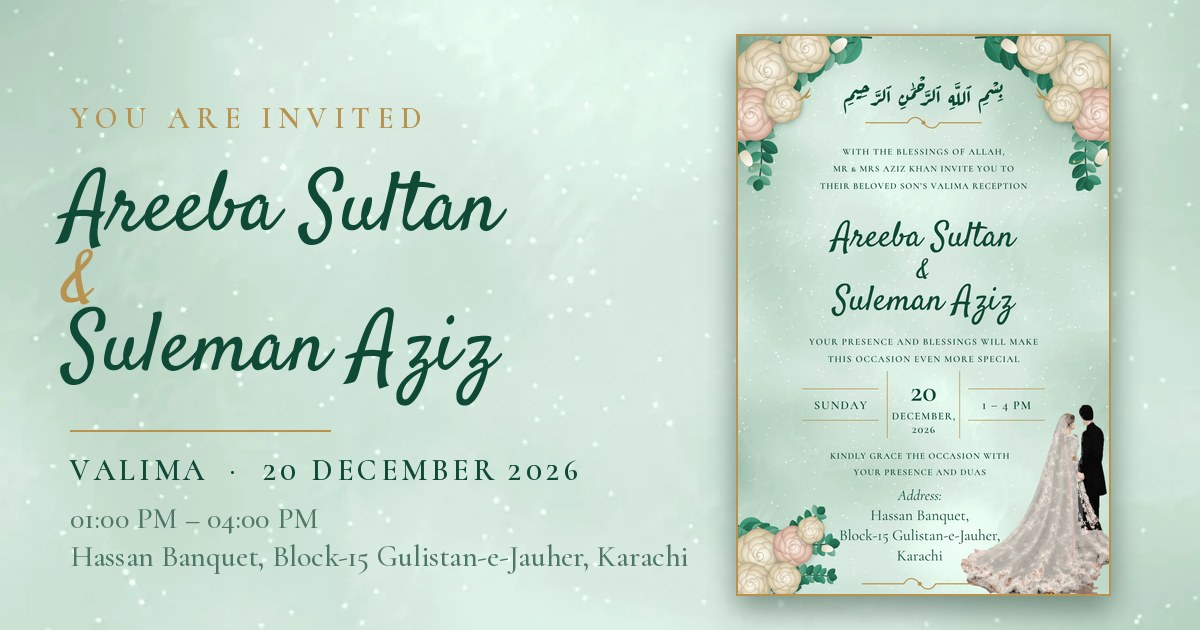
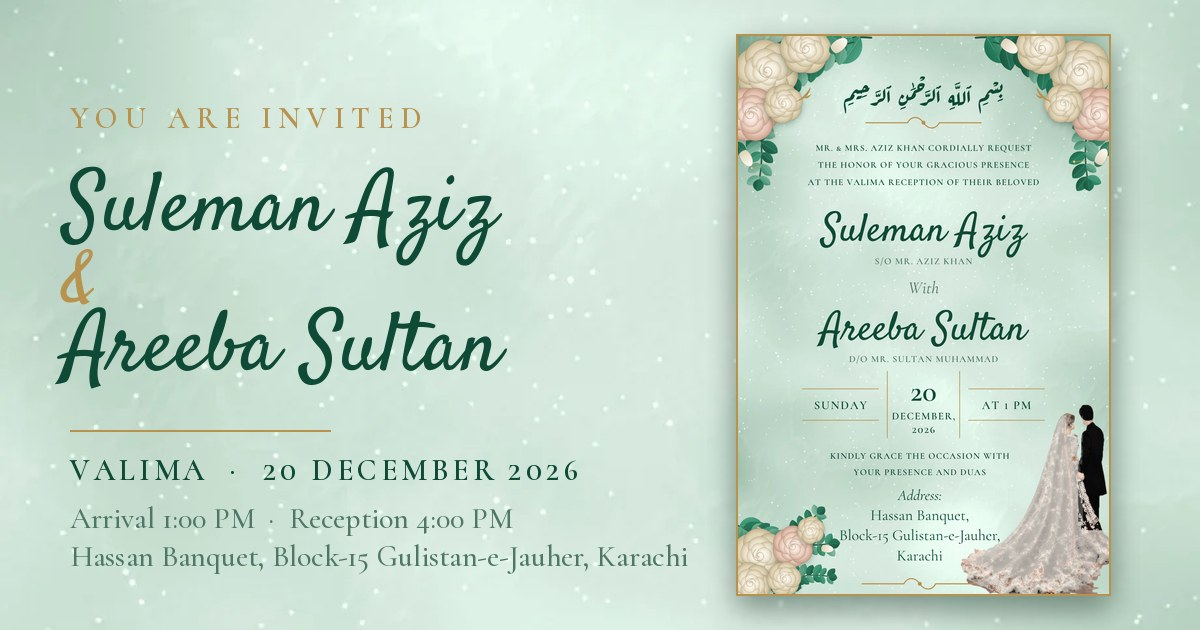
Areeba & Suleman: new card wording, Arrival/Lunch/Reception programme, remove FAQ and RSVP form (RSVP is the Yes/No question)
Claude-Session: https://claude.ai/code/session_014mE54nZZVFzgToMktFZNKW

diff --git a/areeba-suleman/index.html b/areeba-suleman/index.html
@@ -8,14 +8,14 @@
 <link rel="apple-touch-icon" href="apple-touch-icon.png">
 <meta property="og:type" content="website">
 <meta property="og:title" content="Areeba Sultan &amp; Suleman Aziz – Valima Invitation">
-<meta property="og:description" content="You are invited to the Valima on Sunday, 20 December 2026, 01:00 PM – 04:00 PM at Hassan Banquet, Block-15 Gulistan-e-Jauher, Karachi.">
+<meta property="og:description" content="You are invited to the Valima on Sunday, 20 December 2026, from 1:00 PM at Hassan Banquet, Block-15 Gulistan-e-Jauher, Karachi.">
 <meta property="og:image" content="https://areeba-suleman.vercel.app/og.jpg">
 <meta property="og:image:width" content="1200">
 <meta property="og:image:height" content="630">
 <meta name="twitter:card" content="summary_large_image">
 <meta name="twitter:image" content="https://areeba-suleman.vercel.app/og.jpg">
 <title>Areeba Sultan &amp; Suleman Aziz – Valima Invitation</title>
-<meta name="description" content="Mr and Mrs Aziz Khan invite you to the Valima reception of their beloved son Suleman Aziz and Areeba Sultan on Sunday, 20 December 2026, 01:00 PM – 04:00 PM at Hassan Banquet, Block-15 Gulistan-e-Jauher, Karachi.">
+<meta name="description" content="Mr and Mrs Aziz Khan request your presence at the Valima Reception of their beloved son Suleman Aziz with Areeba Sultan on Sunday, 20 December 2026, from 1:00 PM at Hassan Banquet, Block-15 Gulistan-e-Jauher, Karachi.">
 <link rel="preconnect" href="https://fonts.googleapis.com">
 <link rel="preconnect" href="https://fonts.gstatic.com" crossorigin>
 <link href="https://fonts.googleapis.com/css2?family=Amiri&family=Satisfy&family=Aref+Ruqaa:wght@400;700&family=Cormorant+Garamond:ital,wght@0,400;0,600;1,400&family=Cormorant+SC:wght@500;600&family=Great+Vibes&family=Playfair+Display:ital,wght@0,400;0,600;1,400&family=Poppins:wght@300;400;600&display=swap" rel="stylesheet">
@@ -154,7 +154,11 @@
   .ec-orn{width:32cqw;height:3.6cqw;color:var(--ec-gold);margin:1cqw 0 3.5cqw}
   .ec-caps{font:600 2.4cqw/1.85 'Cormorant SC','Cormorant Garamond',Georgia,serif;letter-spacing:.07em;text-transform:uppercase;color:var(--ec)}
   .ec-names{font-weight:400;font-family:'Satisfy','Snell Roundhand',cursive;color:var(--ec);line-height:1;margin:0}
-  .ec-names span{display:block;font-size:11.2cqw;line-height:1.05}
+  .ec-names span{display:block;font-size:10.6cqw;line-height:1.05}
+  .ec-couple{display:flex;flex-direction:column;align-items:center}
+  .ec-par{font:600 2.6cqw/1.4 'Cormorant SC','Cormorant Garamond',Georgia,serif;letter-spacing:.1em;text-transform:uppercase;color:var(--ec-soft);margin:1.4cqw 0 0}
+  .ec-with{font:italic 400 4.6cqw/1 'Cormorant Garamond',Georgia,serif;color:var(--ec-soft);margin:3.2cqw 0 1.6cqw}
+  .ec-bride{margin:0}
   .ec-names i{display:block;font-family:'Satisfy','Snell Roundhand',cursive;font-style:normal;font-size:7cqw;line-height:.9;margin:.5cqw 0}
   .ec-date{display:grid;grid-template-columns:1fr 1.05fr 1fr;align-items:center;width:66cqw;margin:3.5cqw 0 0}
   .ec-date .dl,.ec-date .dr{font:600 3.2cqw 'Cormorant SC',Georgia,serif;letter-spacing:.1em;text-transform:uppercase;text-align:center;padding:1.8cqw 0;margin:0 1.6cqw;border-top:1px solid var(--ec-gold);border-bottom:1px solid var(--ec-gold)}
@@ -461,14 +465,19 @@
         <div class="ec-top">
           <div class="ec-bw"><svg class="lf" viewBox="0 0 24 24" aria-hidden="true"><use href="#sprig"/></svg><p class="ec-bism" lang="ar" dir="rtl">بِسْمِ ٱللَّهِ ٱلرَّحْمَٰنِ ٱلرَّحِيمِ</p><svg class="lf r" viewBox="0 0 24 24" aria-hidden="true"><use href="#sprig"/></svg></div>
           <svg class="ec-orn" aria-hidden="true"><use href="#flourish"/></svg>
-          <p class="ec-caps">With the blessings of Allah,<br>Mr &amp; Mrs Aziz Khan invite you to<br>their beloved son’s Valima reception</p>
+          <p class="ec-caps">Mr. &amp; Mrs. Aziz Khan cordially request<br>the honor of your gracious presence<br>at the Valima Reception of their beloved</p>
         </div>
 
-        <h1 class="ec-names"><span>Areeba Sultan</span><i>&amp;</i><span>Suleman Aziz</span></h1>
+        <div class="ec-couple">
+          <h1 class="ec-names"><span>Suleman Aziz</span></h1>
+          <p class="ec-par">S/o Mr. Aziz Khan</p>
+          <p class="ec-with">With</p>
+          <p class="ec-names ec-bride"><span>Areeba Sultan</span></p>
+          <p class="ec-par">D/o Mr. Sultan Muhammad</p>
+        </div>
 
         <div class="ec-mid">
-          <p class="ec-caps">Your presence and blessings will make<br>this occasion even more special</p>
-          <div class="ec-date"><span class="dl">Sunday</span><span class="dm"><b>20</b><em>December, 2026</em></span><span class="dr">1 – 4 PM</span></div>
+          <div class="ec-date"><span class="dl">Sunday</span><span class="dm"><b>20</b><em>December, 2026</em></span><span class="dr">At 1 PM</span></div>
         </div>
 
         <div class="ec-low">
@@ -521,8 +530,7 @@
       <a href="#gallery" id="galleryLink" hidden>Gallery</a>
       <a href="#venue">Venue</a>
       <a href="#dress">Dress code</a>
-      <a href="#faq">Questions</a>
-      <a href="#rsvp">RSVP</a>
+      <a href="#celebrate">RSVP</a>
       <a href="#share">Share</a>
       <div class="sep"></div>
       <button type="button" id="changeName">Change name</button>
@@ -543,11 +551,10 @@
         <p class="h-quote">With the blessings of Allah, we begin our new life together.</p>
 
 
-        <p class="meta">20 December 2026<i>•</i>Valima<i>•</i>01:00 PM – 04:00 PM</p>
+        <p class="meta">20 December 2026<i>•</i>Valima<i>•</i>Arrival 1:00 PM</p>
 
         <div class="hero-actions">
           <a class="btn primary" href="#programme">Open Invitation</a>
-          <a class="btn" href="#rsvp">RSVP</a>
         </div>
       </div>
     </section>
@@ -555,7 +562,7 @@
     <section id="celebrate" class="wrap" style="padding-top:8px">
       <div class="ask rv" id="ask">
         <div class="ask-q">
-          <p class="eyebrow">A little question</p>
+          <p class="eyebrow">RSVP</p>
           <h3 style="margin-top:10px">Will you be part of our celebration?</h3>
           <p class="ask-hint">Choose carefully…</p>
           <div class="ask-area" id="askArea">
@@ -579,7 +586,9 @@
       <p class="lead">Sunday, 20 December 2026</p>
       <div class="card">
         <ol class="timeline">
-          <li><time datetime="13:00">01:00 PM – 04:00 PM</time><span>Valima Reception</span></li>
+          <li><time datetime="13:00">1:00 PM</time><span>Arrival</span></li>
+          <li><time datetime="14:30">2:30 PM</time><span>Lunch</span></li>
+          <li><time datetime="16:00">4:00 PM</time><span>Valima Reception</span></li>
         </ol>
       </div>
     </section>
@@ -592,7 +601,7 @@
       <div class="card">
         <h3 style="color:var(--accent);margin-top:0">Valima</h3>
         <p class="date" style="margin-top:12px">20 December 2026</p>
-        <p style="margin-top:6px">01:00 PM · Hassan Banquet, Karachi</p>
+        <p style="margin-top:6px">Arrival 1:00 PM · Hassan Banquet, Karachi</p>
         <div class="countdown" id="countdown" role="timer" aria-label="Countdown to the Valima">
           <div><b id="d">--</b><span>Days</span></div>
           <div><b id="h">--</b><span>Hours</span></div>
@@ -640,7 +649,7 @@
         <span class="tag"><span class="ico" aria-hidden="true">&#9670;</span>Valima</span>
         <h3>Hassan Banquet</h3>
         <p class="big">Block-15 Gulistan-e-Jauher, Karachi</p>
-        <p style="margin-top:6px">Sunday, 20 December 2026 · 01:00 PM – 04:00 PM</p>
+        <p style="margin-top:6px">Sunday, 20 December 2026 · Arrival 1:00 PM</p>
         <div class="btn-row">
           <a class="btn primary" id="dirBtn" href="https://www.google.com/maps/dir/?api=1&destination=Hassan+Banquet+Block-15+Gulistan-e-Jauher+Karachi" target="_blank" rel="noopener">Get directions</a>
           <a class="btn" id="calGoogle" href="#" target="_blank" rel="noopener">Google Calendar</a>
@@ -673,70 +682,6 @@
             <span class="sw"><i style="background:#efe3d3"></i>Ivory</span>
           </div>
         </div>
-      </div>
-    </section>
-
-    <section id="faq" class="sec rv wrap">
-      <p class="eyebrow">Everything you need to know</p>
-      <h2>Frequently Asked <em>Questions</em></h2>
-      <div class="rule"></div>
-      <div class="faq">
-        <details name="faq" open><summary>What time should we arrive?</summary><p>The Valima runs from 01:00 PM to 04:00 PM. Please arrive a little early so you can be seated comfortably.</p></details>
-        <details name="faq"><summary>Where is the wedding being held?</summary><p>At Hassan Banquet, Block-15 Gulistan-e-Jauher, Karachi. Tap “Get directions” in the venue section to open it in Maps.</p></details>
-        <details name="faq"><summary>What is the dress code?</summary><p>Elegant traditional formal attire. Emerald green, black and ivory suit the occasion well.</p></details>
-        <details name="faq"><summary>How do I confirm my attendance?</summary><p>Fill in the RSVP form below. It opens a WhatsApp message to send to the family.</p></details>
-      </div>
-    </section>
-
-    <section id="rsvp" class="sec rv wrap">
-      <p class="eyebrow">RSVP</p>
-      <h2>Will you celebrate <em>with us?</em></h2>
-      <div class="rule"></div>
-      <p class="lead">Your presence would make our special day even more beautiful.</p>
-
-      <form class="rsvp" id="rsvpForm" novalidate>
-        <div>
-          <label class="lbl" for="rName">Your name</label>
-          <input class="field" id="rName" name="rName" type="text" maxlength="40" placeholder="Enter your full name" autocomplete="name" required>
-        </div>
-        <div class="row">
-          <label class="lbl" for="rPhone">WhatsApp number <span class="opt-note">Optional</span></label>
-          <input class="field" id="rPhone" name="rPhone" type="tel" inputmode="tel" maxlength="20" placeholder="03XXXXXXXXX" autocomplete="tel">
-        </div>
-
-        <fieldset>
-          <legend>Will you join us?</legend>
-          <div class="opt">
-            <div><input type="radio" name="att" id="att1" value="Joyfully Accept"><label for="att1"><b>Joyfully Accept</b><span>I will be there</span></label></div>
-            <div><input type="radio" name="att" id="att2" value="Maybe"><label for="att2"><b>Maybe</b><span>I will confirm soon</span></label></div>
-            <div><input type="radio" name="att" id="att3" value="Regretfully Decline"><label for="att3"><b>Regretfully Decline</b><span>Unable to attend</span></label></div>
-          </div>
-        </fieldset>
-
-        <fieldset id="guestsBox">
-          <legend>Number of guests</legend>
-          <div class="cnt">
-            <div><input type="radio" name="cnt" id="c1" value="1" checked><label for="c1">1</label></div>
-            <div><input type="radio" name="cnt" id="c2" value="2"><label for="c2">2</label></div>
-            <div><input type="radio" name="cnt" id="c3" value="3"><label for="c3">3</label></div>
-            <div><input type="radio" name="cnt" id="c4" value="4"><label for="c4">4</label></div>
-            <div><input type="radio" name="cnt" id="c5" value="5"><label for="c5">5</label></div>
-          </div>
-        </fieldset>
-
-        <div class="row" style="margin-top:26px">
-          <label class="lbl" for="rMsg">Message for the couple <span class="opt-note">Optional</span></label>
-          <textarea class="field" id="rMsg" name="rMsg" maxlength="300" placeholder="Share your wishes with us"></textarea>
-        </div>
-
-        <p class="err" id="rErr" role="alert" hidden></p>
-        <button class="btn primary block" style="margin-top:24px" type="submit">Send my RSVP</button>
-      </form>
-
-      <div class="done" id="rDone" hidden aria-live="polite">
-        <h3 id="rDoneTitle">Thank you</h3>
-        <p>Your RSVP message is ready in WhatsApp. Tap <b>Send</b> there to confirm it with the family.</p>
-        <button class="btn" style="margin-top:20px" type="button" id="rAgain">Edit my response</button>
       </div>
     </section>
 
@@ -788,7 +733,6 @@
 (function(){
   // ---- Edit these ----
   var WEDDING = new Date('2026-12-20T13:00:00');   // countdown target (local time)
-  var RSVP_WHATSAPP = '';                         // e.g. '923001234567' (country code, no + or spaces). Empty = guest picks the contact.
   // --------------------
   var KEY='wedding-guest-name';
   var $=function(id){return document.getElementById(id)};
@@ -852,7 +796,6 @@
   function setGuest(name){
     guest=name;
     $('dear').textContent=name;
-    $('rName').value=name;
     document.title=name+', you are invited – Areeba Sultan & Suleman Aziz';
   }
   form.addEventListener('submit',function(e){
@@ -939,21 +882,21 @@
     c.direction='rtl';center('بِسْمِ ٱللَّهِ ٱلرَّحْمَٰنِ ٱلرَّحِيمِ',19,'700 '+px(6)+'px "Aref Ruqaa","Amiri","Noto Naskh Arabic",serif');c.direction='ltr';
     (function(){var spr=new Path2D('M2 20C8 18 14 12 19 4C18 12 13 18 2 20Z'),spr2=new Path2D('M11 14C14 15 17 14 20 11C17 17 13 18 11 14Z');c.fillStyle=GOLD;var k=px(6)/24;[[px(18),1],[W-px(18),-1]].forEach(function(o){c.save();c.translate(o[0],px(12.9));c.scale(k*o[1],k);c.translate(-12,0);c.fill(spr);c.fill(spr2);c.restore()})})();
     flourish(CX,23.5,32,GOLD);
-    caps('With the blessings of Allah,',32,2.4,.25);
-    caps('Mr & Mrs Aziz Khan invite you to',36.6,2.4,.2);
-    caps('their beloved son’s Valima reception',41.2,2.4,.2);
+    caps('Mr. & Mrs. Aziz Khan cordially request',31,2.4,.2);
+    caps('the honor of your gracious presence',35.6,2.4,.2);
+    caps('at the Valima Reception of their beloved',40.2,2.4,.2);
     var SC='"Satisfy","Snell Roundhand",cursive';
-    center('Areeba Sultan',56.5,px(9.4)+'px '+SC);
-    center('&',65,px(7)+'px '+SC);
-    center('Suleman Aziz',73.5,px(9.4)+'px '+SC);
-    caps('Your presence and blessings will make',83,2.5,.25);
-    caps('this occasion even more special',87.6,2.5,.25);
+    center('Suleman Aziz',55,px(10.6)+'px '+SC);
+    caps('S/o Mr. Aziz Khan',61.4,2.5,.2,SOFT);
+    center('With',69.2,'italic '+px(4.6)+'px "Cormorant Garamond",Georgia,serif',SOFT);
+    center('Areeba Sultan',81.5,px(10.6)+'px '+SC);
+    caps('D/o Mr. Sultan Muhammad',87.6,2.5,.2,SOFT);
     /* date row */
     var yc=99;c.strokeStyle=GOLD;c.lineWidth=2;
     function hl(x1,x2,y){c.beginPath();c.moveTo(px(x1),px(y));c.lineTo(px(x2),px(y));c.stroke()}
     hl(17.5,38,yc-4.2);hl(17.5,38,yc+4.2);hl(62,82.5,yc-4.2);hl(62,82.5,yc+4.2);
     c.beginPath();c.moveTo(px(40.3),px(yc-9));c.lineTo(px(40.3),px(yc+9));c.moveTo(px(59.7),px(yc-9));c.lineTo(px(59.7),px(yc+9));c.stroke();
-    (function(){var save=CX;CX=px(27.75);caps('Sunday',yc+1.2,3.2,.3);CX=px(72.25);caps('1 – 4 PM',yc+1.2,3.2,.3);CX=save})();
+    (function(){var save=CX;CX=px(27.75);caps('Sunday',yc+1.2,3.2,.3);CX=px(72.25);caps('At 1 PM',yc+1.2,3.2,.3);CX=save})();
     center('20',yc-1,'600 '+px(8)+'px "Cormorant Garamond",Georgia,serif');
     caps('December,',yc+4,2.8,.25);caps('2026',yc+7.6,2.8,.25);
     var CX0=CX;CX=CX0-px(1);
@@ -1028,13 +971,13 @@
   })();
 
 
-  /* add to calendar (1:00 PM to 4:00 PM Pakistan time = 08:00 to 11:00 UTC) */
+  /* add to calendar (1:00 PM to 5:00 PM Pakistan time = 08:00 to 12:00 UTC) */
   (function(){
-    var T='Valima of Areeba Sultan & Suleman Aziz',L='Hassan Banquet, Block-15 Gulistan-e-Jauher, Karachi',D='Valima reception, 01:00 PM to 04:00 PM.';
-    $('calGoogle').href='https://calendar.google.com/calendar/render?action=TEMPLATE&text='+encodeURIComponent(T)+'&dates=20261220T080000Z/20261220T110000Z&details='+encodeURIComponent(D)+'&location='+encodeURIComponent(L);
+    var T='Valima of Areeba Sultan & Suleman Aziz',L='Hassan Banquet, Block-15 Gulistan-e-Jauher, Karachi',D='Arrival 1:00 PM, Lunch 2:30 PM, Valima Reception 4:00 PM.';
+    $('calGoogle').href='https://calendar.google.com/calendar/render?action=TEMPLATE&text='+encodeURIComponent(T)+'&dates=20261220T080000Z/20261220T120000Z&details='+encodeURIComponent(D)+'&location='+encodeURIComponent(L);
     $('calIcs').addEventListener('click',function(){
       var ics=['BEGIN:VCALENDAR','VERSION:2.0','PRODID:-//Areeba and Suleman//Invitation//EN','CALSCALE:GREGORIAN','BEGIN:VEVENT',
-        'UID:valima-20261220@areeba-and-suleman','DTSTAMP:20261101T000000Z','DTSTART:20261220T080000Z','DTEND:20261220T110000Z',
+        'UID:valima-20261220@areeba-and-suleman','DTSTAMP:20261101T000000Z','DTSTART:20261220T080000Z','DTEND:20261220T120000Z',
         'SUMMARY:'+T.replace(/&/g,'and'),'LOCATION:'+L,'DESCRIPTION:'+D,
         'BEGIN:VALARM','TRIGGER:-P1D','ACTION:DISPLAY','DESCRIPTION:Valima tomorrow','END:VALARM',
         'BEGIN:VALARM','TRIGGER:-PT3H','ACTION:DISPLAY','DESCRIPTION:Valima today','END:VALARM',
@@ -1052,43 +995,15 @@
     document.querySelectorAll('.rv').forEach(function(el){io.observe(el)});
   })();
 
-  /* RSVP -> WhatsApp message */
-  var rForm=$('rsvpForm'), rErr=$('rErr'), rDone=$('rDone');
-  function waLink(text){
-    var num=String(RSVP_WHATSAPP||'').replace(/\D/g,'');
-    return 'https://wa.me/'+num+'?text='+encodeURIComponent(text);
-  }
   function openLink(url){
     var a=document.createElement('a');a.href=url;a.target='_blank';a.rel='noopener';
     document.body.appendChild(a);a.click();a.remove();
   }
-  function syncGuests(){
-    var att=(rForm.querySelector('input[name=att]:checked')||{}).value;
-    $('guestsBox').hidden=(att==='Regretfully Decline');
-  }
-  rForm.addEventListener('change',syncGuests);
-  rForm.addEventListener('submit',function(e){
-    e.preventDefault();
-    var name=clean($('rName').value), att=(rForm.querySelector('input[name=att]:checked')||{}).value;
-    if(!name){rErr.textContent='Please enter your name.';rErr.hidden=false;$('rName').focus();return}
-    if(!att){rErr.textContent='Please choose whether you can join us.';rErr.hidden=false;return}
-    rErr.hidden=true;
-    var phone=clean($('rPhone').value), msg=$('rMsg').value.trim().slice(0,300);
-    var lines=['RSVP: Areeba Sultan & Suleman Aziz’s Valima, Sunday 20 December 2026','Name: '+name];
-    if(phone)lines.push('WhatsApp: '+phone);
-    lines.push('Response: '+att);
-    if(att!=='Regretfully Decline')lines.push('Guests: '+rForm.querySelector('input[name=cnt]:checked').value);
-    if(msg)lines.push('Message: '+msg);
-    openLink(waLink(lines.join('\n')));
-    $('rDoneTitle').textContent='Thank you, '+name;
-    rForm.hidden=true;rDone.hidden=false;
-  });
-  $('rAgain').addEventListener('click',function(){rDone.hidden=true;rForm.hidden=false;rForm.scrollIntoView({block:'start'})});
 
   /* share */
   var status=$('shareStatus');
   function pageUrl(){try{return location.origin+location.pathname}catch(_){return location.href}}
-  var shareText='You are invited to the Valima of Areeba Sultan & Suleman Aziz — Sunday, 20 December 2026, 01:00 PM – 04:00 PM, Hassan Banquet, Block-15 Gulistan-e-Jauher, Karachi.';
+  var shareText='You are invited to the Valima of Areeba Sultan & Suleman Aziz — Sunday, 20 December 2026, from 1:00 PM, Hassan Banquet, Block-15 Gulistan-e-Jauher, Karachi.';
   $('shareWa').addEventListener('click',function(){openLink('https://wa.me/?text='+encodeURIComponent(shareText+'\n'+pageUrl()))});
   $('shareAny').addEventListener('click',function(){
     var url=pageUrl();
